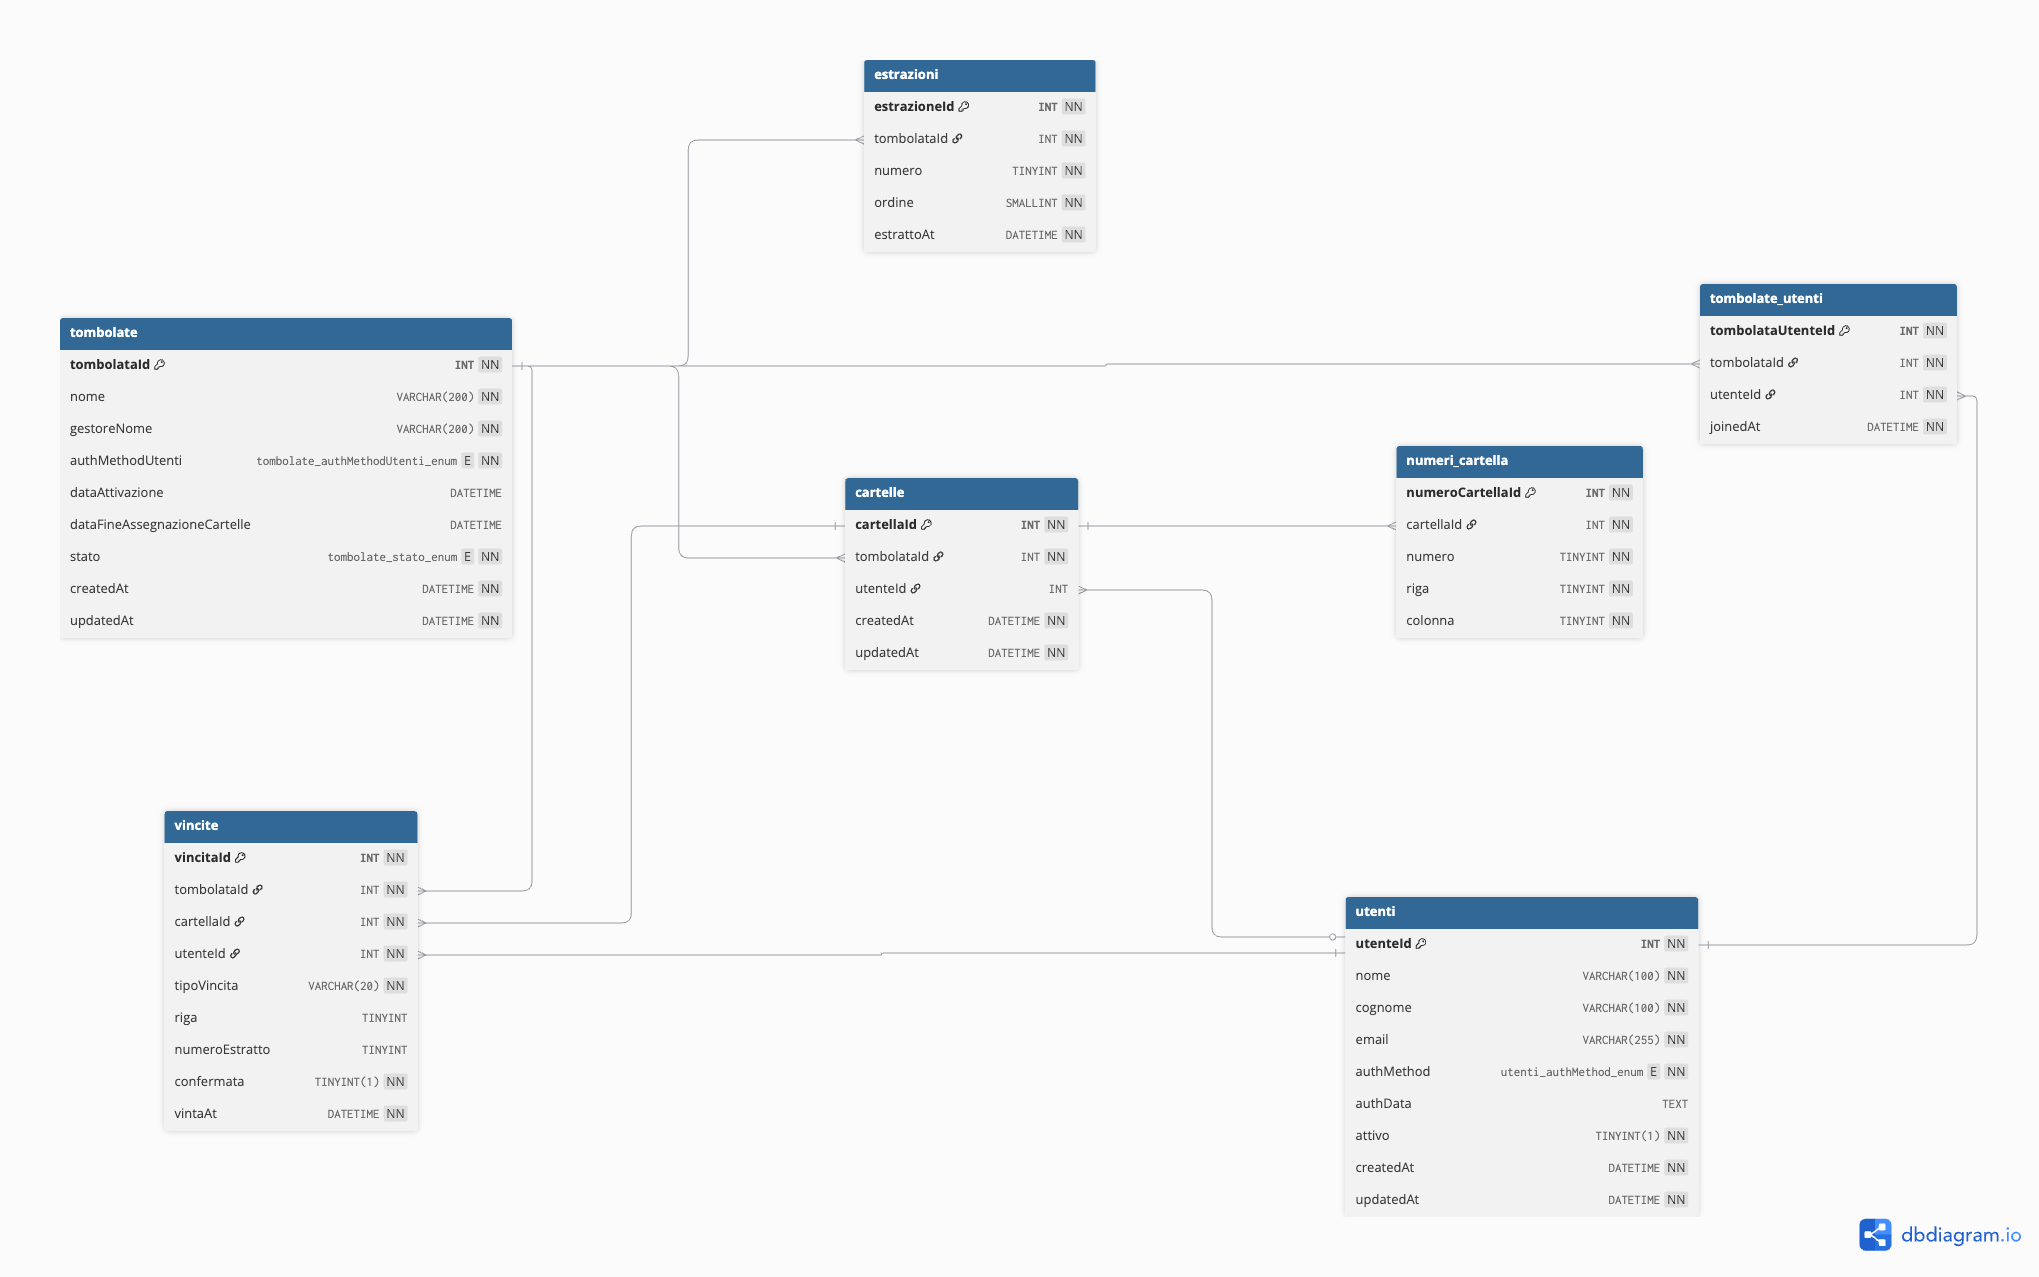
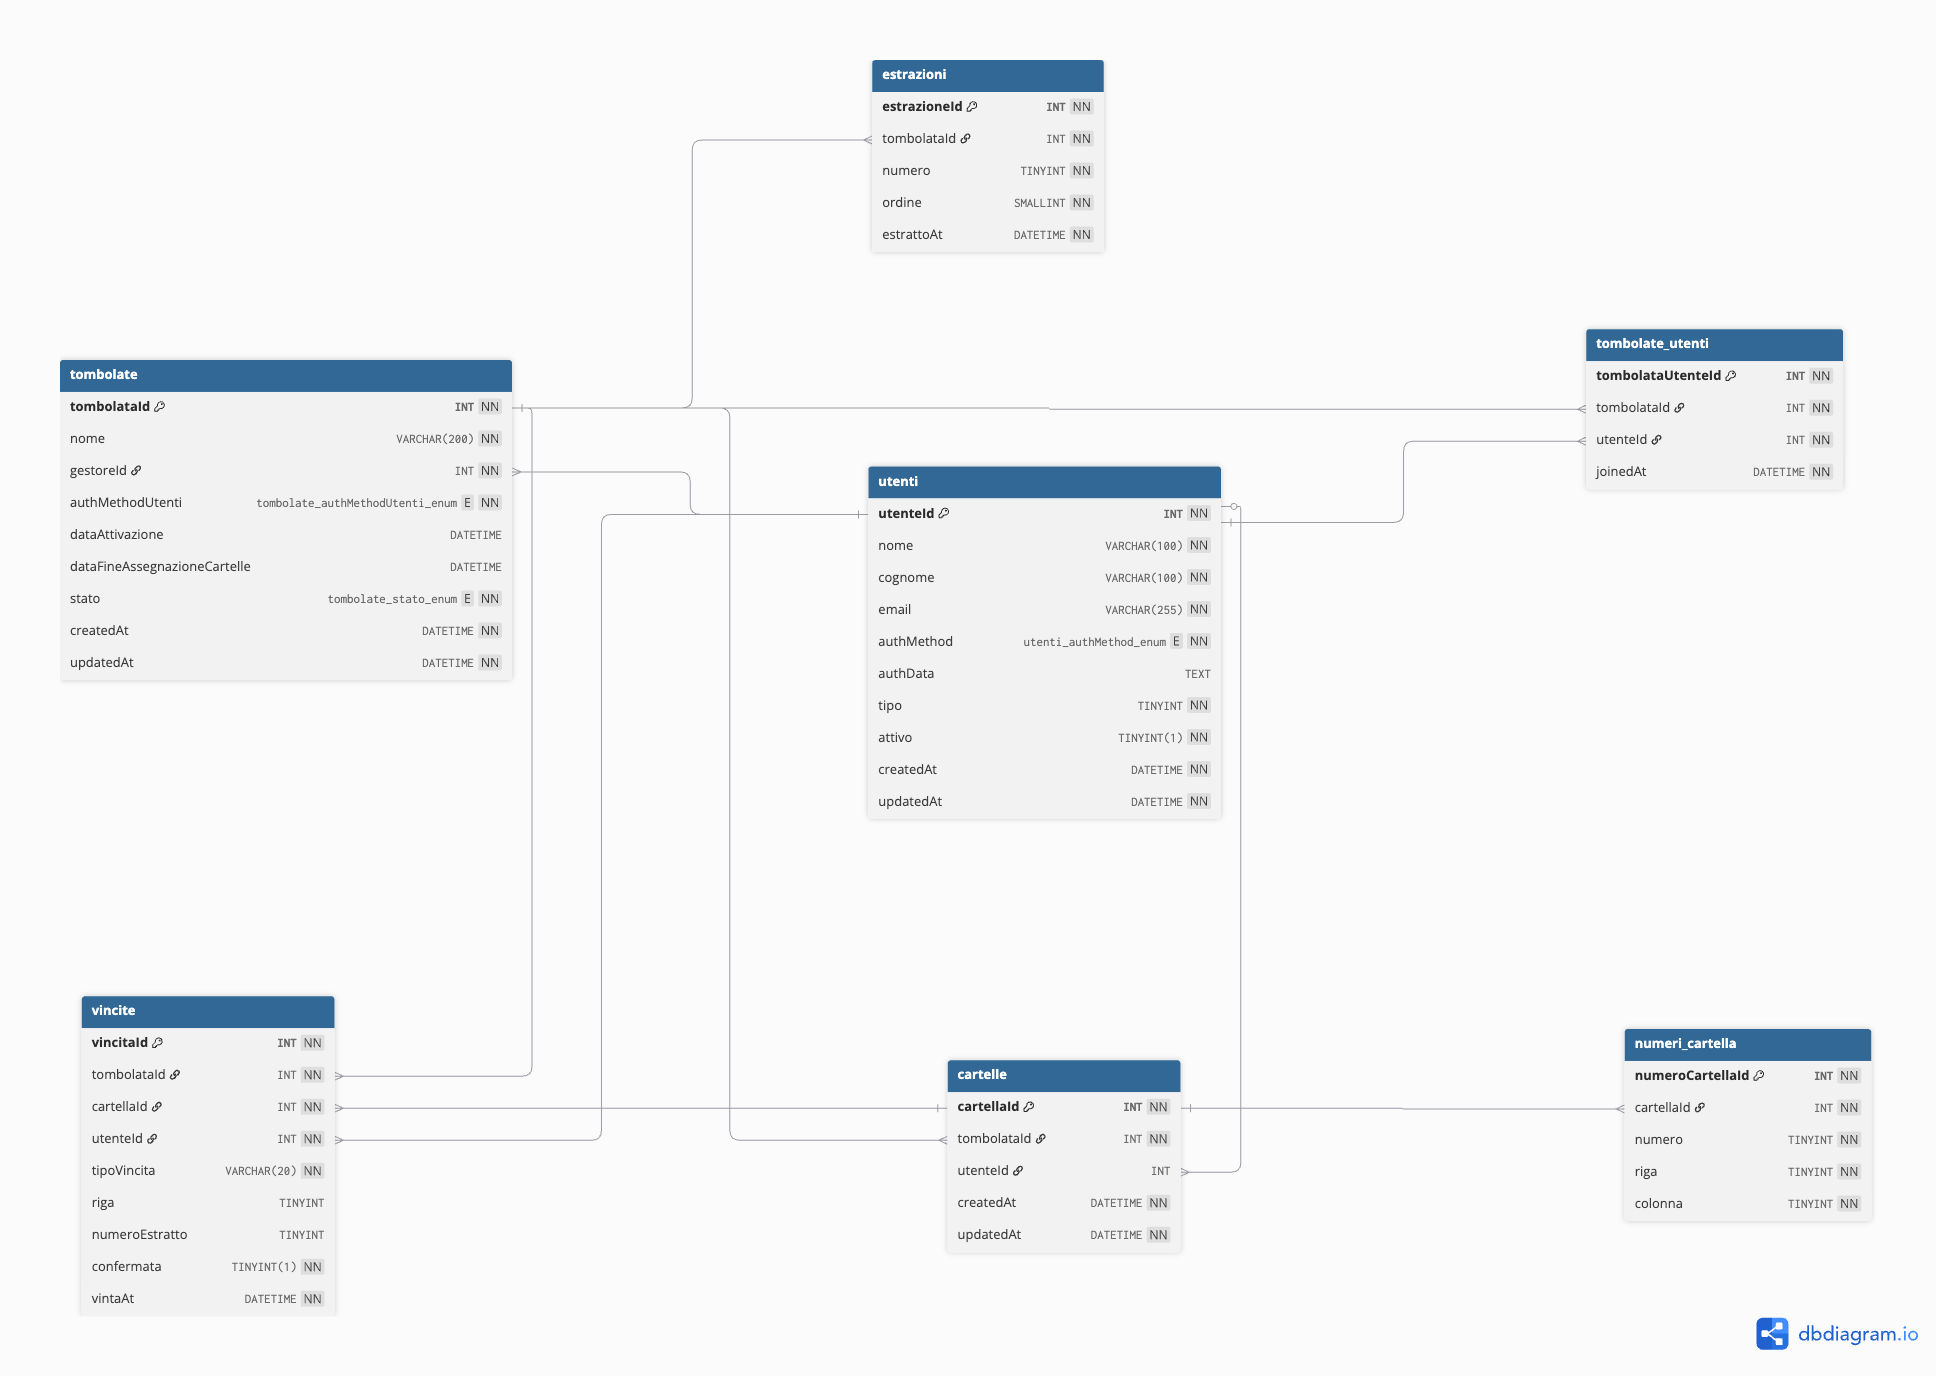
Aggiunto legame tra Tombolata ed Utenti

diff --git a/docs/ApiRest.html b/docs/ApiRest.html
@@ -248,7 +248,8 @@
   <span class="key">"cognome"</span>:    <span class="str">"Rossi"</span>,
   <span class="key">"email"</span>:      <span class="str">"mario.rossi@example.com"</span>,
   <span class="key">"authMethod"</span>: <span class="str">"password"</span>,
-  <span class="key">"password"</span>:   <span class="str">"s3cr3t!"</span>
+  <span class="key">"password"</span>:   <span class="str">"s3cr3t!"</span>,
+  <span class="key">"tipo"</span>:       <span class="num">1</span>  <span class="cmt">// 0 = Admin · 1 = User · 2 = Guest</span>
 }</pre>
     <div class="res-label"><span class="status s201">201</span> Created</div>
 <pre>{
@@ -257,6 +258,7 @@
   <span class="key">"cognome"</span>:    <span class="str">"Rossi"</span>,
   <span class="key">"email"</span>:      <span class="str">"mario.rossi@example.com"</span>,
   <span class="key">"authMethod"</span>: <span class="str">"password"</span>,
+  <span class="key">"tipo"</span>:       <span class="num">1</span>,
   <span class="key">"createdAt"</span>:  <span class="str">"2025-12-01T10:00:00Z"</span>
 }</pre>
     <hr>
@@ -301,7 +303,7 @@
 <pre>{
   <span class="key">"totale"</span>: <span class="num">42</span>,
   <span class="key">"utenti"</span>: [
-    { <span class="key">"utenteId"</span>: <span class="num">1</span>, <span class="key">"nome"</span>: <span class="str">"Mario"</span>, <span class="key">"cognome"</span>: <span class="str">"Rossi"</span>, <span class="key">"email"</span>: <span class="str">"..."</span>, <span class="key">"attivo"</span>: <span class="bool">true</span> }
+    { <span class="key">"utenteId"</span>: <span class="num">1</span>, <span class="key">"nome"</span>: <span class="str">"Mario"</span>, <span class="key">"cognome"</span>: <span class="str">"Rossi"</span>, <span class="key">"email"</span>: <span class="str">"..."</span>, <span class="key">"tipo"</span>: <span class="num">1</span>, <span class="key">"attivo"</span>: <span class="bool">true</span> }
   ]
 }</pre>
     <hr>
@@ -319,6 +321,7 @@
   <span class="key">"cognome"</span>:   <span class="str">"Rossi"</span>,
   <span class="key">"email"</span>:     <span class="str">"mario.rossi@example.com"</span>,
   <span class="key">"authMethod"</span>:<span class="str">"password"</span>,
+  <span class="key">"tipo"</span>:      <span class="num">1</span>,
   <span class="key">"attivo"</span>:    <span class="bool">true</span>,
   <span class="key">"createdAt"</span>: <span class="str">"2025-12-01T10:00:00Z"</span>
 }</pre>
@@ -335,7 +338,8 @@
   <span class="key">"nome"</span>:     <span class="str">"Mario"</span>,
   <span class="key">"cognome"</span>:  <span class="str">"Bianchi"</span>,
   <span class="key">"email"</span>:    <span class="str">"mario.bianchi@example.com"</span>,
-  <span class="key">"password"</span>: <span class="str">"nuovaSicura99!"</span>
+  <span class="key">"password"</span>: <span class="str">"nuovaSicura99!"</span>,
+  <span class="key">"tipo"</span>:     <span class="num">1</span>  <span class="cmt">// 0 = Admin · 1 = User · 2 = Guest</span>
 }</pre>
     <div class="res-label"><span class="status s200">200</span> OK — oggetto utente aggiornato</div>
     <hr>
@@ -364,7 +368,7 @@
     <div class="res-label">Request body</div>
 <pre>{
   <span class="key">"nome"</span>:                         <span class="str">"Tombola di Natale 2025"</span>,
-  <span class="key">"gestoreNome"</span>:                  <span class="str">"Luigi Verdi"</span>,
+  <span class="key">"gestoreId"</span>:                    <span class="num">3</span>,
   <span class="key">"authMethodUtenti"</span>:             <span class="str">"password"</span>,
   <span class="key">"dataAttivazione"</span>:              <span class="str">"2025-12-25T21:00:00Z"</span>,
   <span class="key">"dataFineAssegnazioneCartelle"</span>: <span class="str">"2025-12-25T20:30:00Z"</span>
@@ -373,7 +377,7 @@
 <pre>{
   <span class="key">"tombolataId"</span>:                  <span class="num">1</span>,
   <span class="key">"nome"</span>:                         <span class="str">"Tombola di Natale 2025"</span>,
-  <span class="key">"gestoreNome"</span>:                  <span class="str">"Luigi Verdi"</span>,
+  <span class="key">"gestoreId"</span>:                    <span class="num">3</span>,
   <span class="key">"authMethodUtenti"</span>:             <span class="str">"password"</span>,
   <span class="key">"dataAttivazione"</span>:              <span class="str">"2025-12-25T21:00:00Z"</span>,
   <span class="key">"dataFineAssegnazioneCartelle"</span>: <span class="str">"2025-12-25T20:30:00Z"</span>,
@@ -416,7 +420,7 @@
 <pre>{
   <span class="key">"tombolataId"</span>:                  <span class="num">1</span>,
   <span class="key">"nome"</span>:                         <span class="str">"Tombola di Natale 2025"</span>,
-  <span class="key">"gestoreNome"</span>:                  <span class="str">"Luigi Verdi"</span>,
+  <span class="key">"gestoreId"</span>:                    <span class="num">3</span>,
   <span class="key">"stato"</span>:                        <span class="str">"attiva"</span>,
   <span class="key">"dataAttivazione"</span>:              <span class="str">"2025-12-25T21:00:00Z"</span>,
   <span class="key">"dataFineAssegnazioneCartelle"</span>: <span class="str">"2025-12-25T20:30:00Z"</span>,

diff --git a/docs/SpecificheTombola.html b/docs/SpecificheTombola.html
@@ -323,7 +323,7 @@
         <thead><tr><th>Tabella</th><th>Dipende da</th><th>Descrizione</th></tr></thead>
         <tbody>
           <tr><td><code>utenti</code></td><td>—</td><td>Utenti registrati alla piattaforma</td></tr>
-          <tr><td><code>tombolate</code></td><td>—</td><td>Sessioni di gioco</td></tr>
+          <tr><td><code>tombolate</code></td><td><code>utenti</code></td><td>Sessioni di gioco (gestoreId → utenti)</td></tr>
           <tr><td><code>tombolate_utenti</code></td><td><code>tombolate</code>, <code>utenti</code></td><td>Partecipanti registrati a una tombolata</td></tr>
           <tr><td><code>cartelle</code></td><td><code>tombolate</code>, <code>utenti</code></td><td>Cartelle di gioco (assegnate o libere)</td></tr>
           <tr><td><code>numeri_cartella</code></td><td><code>cartelle</code></td><td>I 15 numeri di ogni cartella, con riga e colonna</td></tr>
@@ -351,6 +351,7 @@
             <tr><td><code>email</code></td><td>TEXT / VARCHAR(255)</td><td>NOT NULL, UNIQUE</td><td>Indirizzo email (usato per il login)</td></tr>
             <tr><td><code>authMethod</code></td><td>TEXT / ENUM</td><td>NOT NULL, default <code>'password'</code></td><td>Metodo di autenticazione: <code>password</code>, <code>otp</code>, <code>oauth</code>, <code>magic_link</code></td></tr>
             <tr><td><code>authData</code></td><td>TEXT</td><td>nullable</td><td>Hash password, token OAuth, ecc.</td></tr>
+            <tr><td><code>tipo</code></td><td>INTEGER / TINYINT UNSIGNED</td><td>NOT NULL, default <code>1</code>, CHECK 0–2</td><td>Ruolo dell'utente: <code>0</code> = Admin · <code>1</code> = User · <code>2</code> = Guest</td></tr>
             <tr><td><code>attivo</code></td><td>INTEGER / TINYINT</td><td>NOT NULL, default <code>1</code></td><td><code>0</code> = utente disabilitato (soft-delete)</td></tr>
             <tr><td><code>createdAt</code></td><td>TEXT / DATETIME</td><td>NOT NULL, default now</td><td>Data di registrazione</td></tr>
             <tr><td><code>updatedAt</code></td><td>TEXT / DATETIME</td><td>NOT NULL, default now</td><td>Ultimo aggiornamento</td></tr>
@@ -365,6 +366,7 @@
       <div class="schema-card-header">
         <span class="table-name">tombolate</span>
         <span class="badge badge-blue">PK: tombolataId</span>
+        <span class="badge badge-gray">FK: gestoreId</span>
         <span class="table-desc">Sessioni di gioco</span>
       </div>
       <div class="table-wrap" style="margin:0; border:none; border-radius:0;">
@@ -373,7 +375,7 @@
           <tbody>
             <tr><td><code>tombolataId</code></td><td>INTEGER / INT UNSIGNED</td><td>PK, AUTO</td><td>Identificatore univoco</td></tr>
             <tr><td><code>nome</code></td><td>TEXT / VARCHAR(200)</td><td>NOT NULL</td><td>Nome della tombolata</td></tr>
-            <tr><td><code>gestoreNome</code></td><td>TEXT / VARCHAR(200)</td><td>NOT NULL</td><td>Nome del gestore della sessione</td></tr>
+            <tr><td><code>gestoreId</code></td><td>INTEGER / INT UNSIGNED</td><td>NOT NULL, FK → <code>utenti</code></td><td>Utente che crea e gestisce la sessione (tipo = 0, Admin)</td></tr>
             <tr><td><code>authMethodUtenti</code></td><td>TEXT / ENUM</td><td>NOT NULL, default <code>'password'</code></td><td>Metodo di autenticazione imposto agli utenti: <code>password</code>, <code>otp</code>, <code>oauth</code>, <code>magic_link</code>, <code>none</code></td></tr>
             <tr><td><code>dataAttivazione</code></td><td>TEXT / DATETIME</td><td>nullable</td><td>Data e ora pianificate per l'inizio del gioco</td></tr>
             <tr><td><code>dataFineAssegnazioneCartelle</code></td><td>TEXT / DATETIME</td><td>nullable</td><td>Deadline entro cui assegnare le cartelle agli utenti</td></tr>
